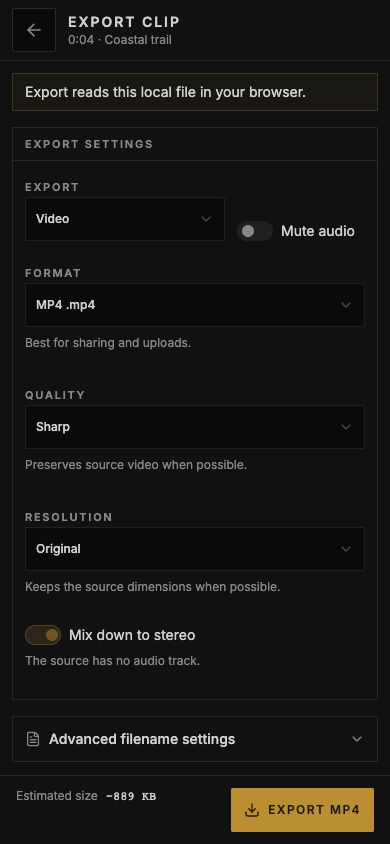
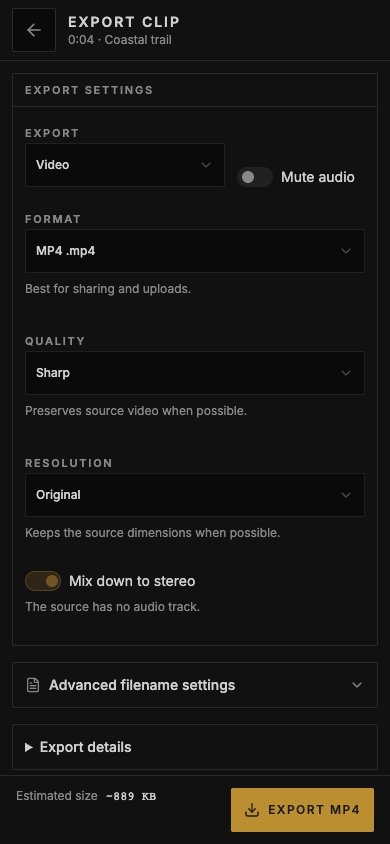
fix(frontend): remove the redundant local export notice

diff --git a/apps/frontend/src/components/editor/editorExportPlan.ts b/apps/frontend/src/components/editor/editorExportPlan.ts
@@ -291,12 +291,12 @@ export function buildExportSourceMessage({
   directSource?: EditorMediaSource;
   hlsFallbackInfo: PlaybackFallbackInfo | null;
 }) {
-  if (resolvedSourceKind === "none" || !resolvedSource) {
+  if (
+    resolvedSourceKind === "none" ||
+    !resolvedSource ||
+    resolvedSource.role === "local-file"
+  ) {
     return null;
-  }
-
-  if (resolvedSource.role === "local-file") {
-    return "Export reads this local file in your browser.";
   }
 
   if (resolvedSource.role === "direct-url") {

diff --git a/apps/frontend/src/components/editor/useEditorExport.test.ts b/apps/frontend/src/components/editor/useEditorExport.test.ts
@@ -931,6 +931,17 @@ void test("builds export dimensions and source messaging", () => {
     buildExportSourceMessage({
       preference: "auto",
       resolvedSourceKind: "direct",
+      resolvedSource: localFileSource,
+      directSource: localFileSource,
+      hlsFallbackInfo: null,
+    }),
+    null,
+  );
+
+  assert.equal(
+    buildExportSourceMessage({
+      preference: "auto",
+      resolvedSourceKind: "direct",
       resolvedSource: directUrlSource,
       hlsFallbackInfo: null,
     }),
